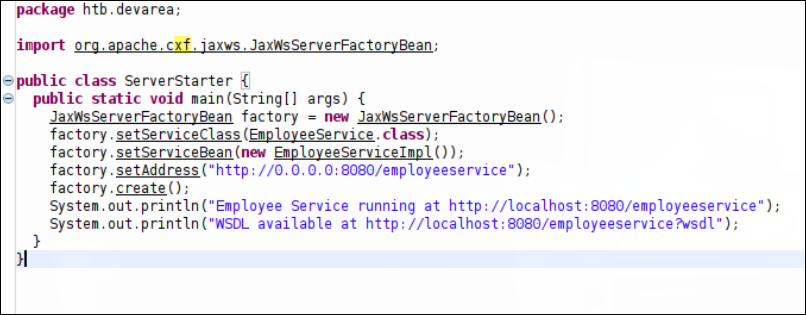
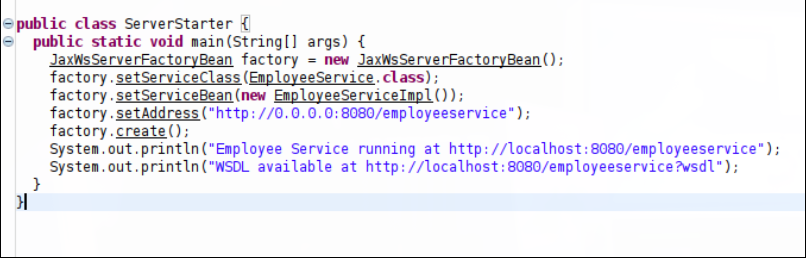
Update: technical details and pwn chain visualization

Changed region(s): [[0.0, 0.0, 1.0, 0.8372], [0.0, 0.9922, 1.0, 1.0]]

diff --git a/src/content/posts/DevArea.md b/src/content/posts/DevArea.md
@@ -1,10 +1,10 @@
 ---
-title: "System Takeover: DevArea HTB Writeup"
+title: "DevArea HTB Writeup"
 published: 2026-05-13
 description: "⭐ NANO IS HERE ⭐"
 image: "./dev.png"
 tags: [PrivilegeEscalation,Penetration Testing, Red Team, Vulnerability Exploitation, Web Security]
-category: "Hacking TTPs"
+category: "Hacking TTPs, CTF"
 draft: false
 
 ---
@@ -17,7 +17,14 @@ I’m **NANO**, and in this write-up, I’ll walk you through exploiting **DevAr
  - Full walkthrough of DevArea machine involving XXE, Hoverfly RCE, and Bash hijacking."
 ### **Step By Step**
 
-Let’s dive in and have some fun hacking.
+**Come with me to travel**
+
+Machine Overview
+
+    Name: DevArea
+    OS: Linux (Ubuntu 24.04)
+    Difficulty: Medium
+
 
 ### **1\. Reconnaissance**
 
@@ -52,7 +59,7 @@ Since **Anonymous login** was permitted, I immediately jumped into the FTP serve
 
 To understand the backend logic, I used jadx-gui to decompile the retrieved JAR file. Inside ServerStarter.java, I identified the use of **Apache CXF JAX-WS**.
 
-![captionless image](./page6.png)
+
 
 ```
 
@@ -316,5 +323,11 @@ The payload successfully set the SUID bit on Python 3. I could now use Python to
 *   **Privilege Escalation via Binary Hijacking**: Discovered that /usr/bin/bash was mistakenly set to **world-writable**. I replaced the system bash with a malicious payload that granted **SUID** permissions to Python3.
     
 *   **Full System Compromise**: Executed a privileged script via sudo to trigger the payload and spawned a root shell using the modified Python binary.
+
+## ** اللهم صل على محمد عبدك ورسولك كما صليت على إبراهيم ، وبارك على محمد وعلى آل محمد كما باركت على إبراهيم وعلى آل إبراهيم**
+===============================
+
+
+
 ![captionless image](./page9.gif)
 